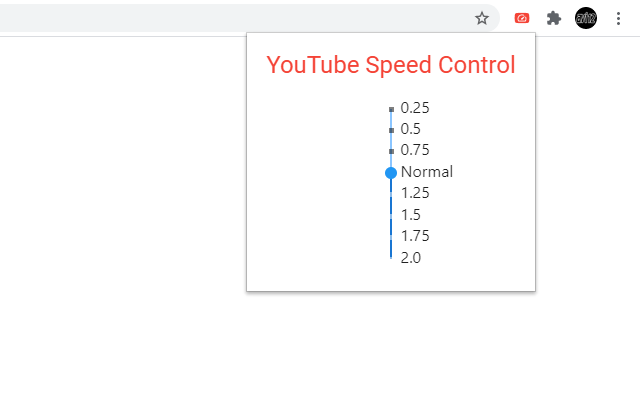
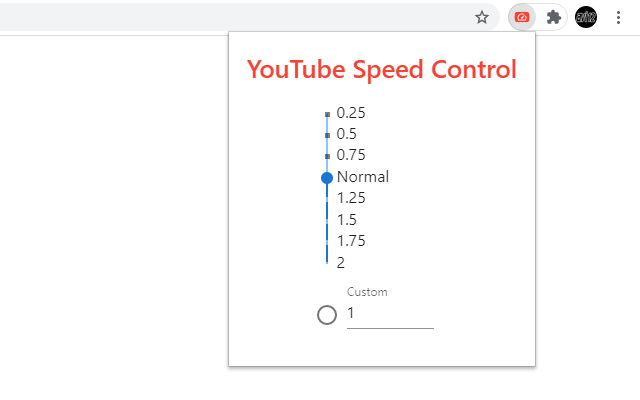
Updated screenshots & added the Chrome screenshot to the README

diff --git a/README.md b/README.md
@@ -1,6 +1,8 @@
 # YouTube Speed Control
 A browser extension that lets you control the speed of YouTube videos, even if they're embedded, including changing the speed "on the fly", i.e. changing the speed will immediately affect any videos you're watching.
 
+![Google Chrome screenshot](https://github.com/avi12/youtube-speed-control/blob/main/images/screenshots/chrome/english.png?raw=true)
+
 Available for:
 * [Google Chrome](https://chrome.google.com/webstore/detail/dmpbgbehgckaijcpmodinibhkdgbifif) ![users count](https://img.shields.io/chrome-web-store/users/dmpbgbehgckaijcpmodinibhkdgbifif?color=white&label=users&style=flat-square)
 * [Mozilla Firefox](https://addons.mozilla.org/addon/youtube-speed-control-1) ![users count](https://img.shields.io/amo/users/youtube-speed-control-1?color=white&label=users&style=flat-square)
